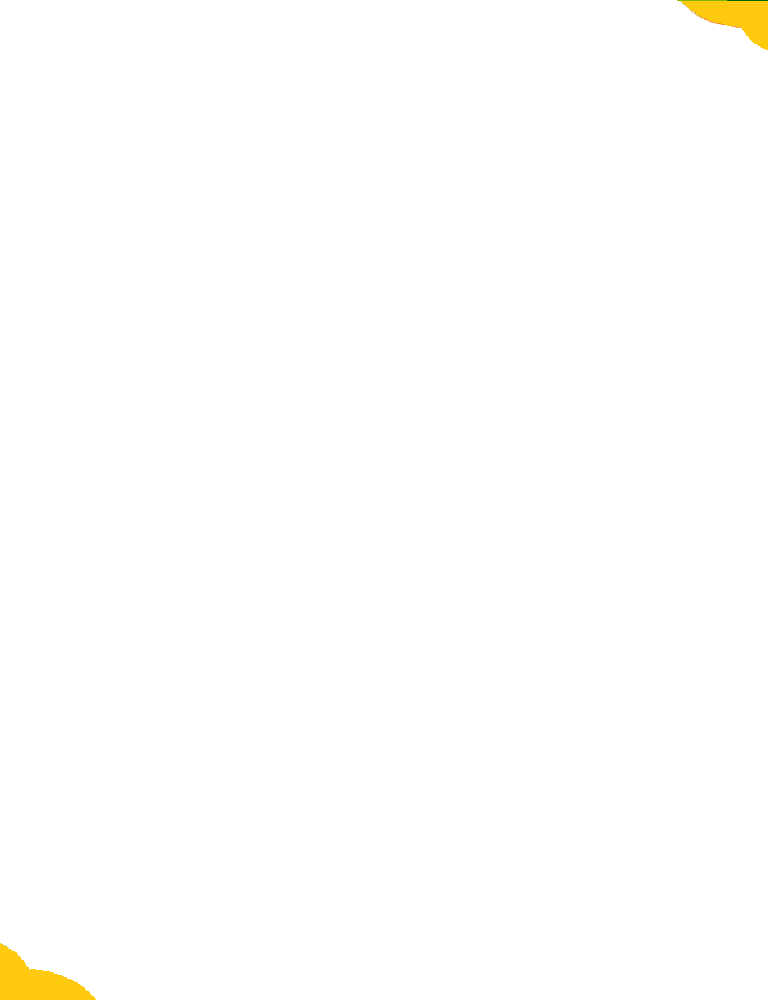
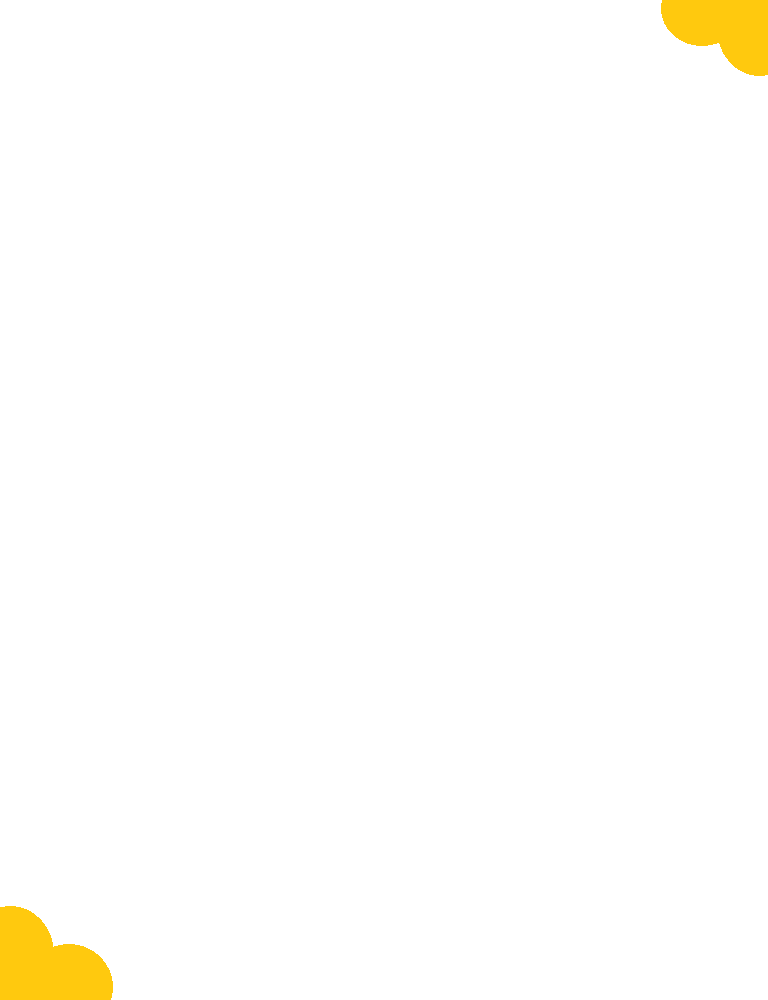
Ajustes de ajustes de imagenes

Changed region(s): [[0.0, 0.899, 0.1562, 1.0], [0.8438, 0.0, 1.0, 0.093]]

diff --git a/src/app/home/home.component.html b/src/app/home/home.component.html
@@ -1,19 +1,21 @@
-<section class="container h-100 pt-5">
-  <div class="row no-gutters mb-5">
-    <div class="col-12">
-      <div class="text-center">
-        <a href="#">
-          <h1><img src="assets/icons/icon-72x72.png" class="img-fluid" alt="img"></h1>
-        </a>
+<section>
+  <div class="container h-100 pt-5">
+    <div class="row no-gutters mb-5">
+      <div class="col-12">
+        <div class="text-center">
+          <a href="#">
+            <h1><img src="assets/icons/icon-72x72.png" class="img-fluid" alt="img"></h1>
+          </a>
+        </div>
       </div>
     </div>
+    <article class="row text-center">
+      <div class="col-12 mt-5">
+        <button type="button" class="btn btn-warning btn-circle-home">
+          <fa-icon [icon]="['fas', 'hamburger']" data-original-title="" title=""></fa-icon>
+          <p class="txtcard">Ingresar</p>
+        </button>
+      </div>
+    </article>
   </div>
-  <article class="row text-center">
-    <div class="col-12 mt-5">
-      <button type="button" class="btn btn-warning btn-circle-home">
-        <fa-icon [icon]="['fas', 'hamburger']" data-original-title="" title=""></fa-icon>
-        <p class="txtcard">Ingresar</p>
-      </button>
-    </div>
-  </article>
 </section>

diff --git a/src/styles.scss b/src/styles.scss
@@ -50,7 +50,13 @@ section {
   }
 }
 
-@media only screen and (min-device-width: 768px) and (max-device-width: 769px) and (-webkit-min-device-pixel-ratio: 1) {
+@media only screen and (min-device-width: 500px) and (max-device-width: 803px) and (-webkit-min-device-pixel-ratio: 1) {
+  section {
+    background-image: url("assets/images/bg_Programa_Tu_Break_ipad_1.png");
+  }
+}
+
+@media only screen and (min-device-width: 770px) and (max-device-width: 2000px) and (-webkit-min-device-pixel-ratio: 1) {
   section {
     background-image: url("assets/images/bg_Programa_Tu_Break_ipad_1.png");
   }
@@ -73,31 +79,8 @@ main {
   margin-left: 0px !important;
 }
 
-@media (min-width: 992px) {
-  .container {
-    max-width: 960px !important;
-  }
-}
-
-@media (min-width: 768px) {
-  .container, .container-sm, .container-md {
-    max-width: 100% !important;
-  }
-}
-
-@media (min-width: 992px) {
-  .container, .container-sm, .container-md {
-    max-width: 100% !important;
-  }
-}
-
-@media (min-width: 576px) {
-  .container, .container-sm {
-    max-width: 100%;
-  }
-}
-
 .btn-circle-home
  {
    width: 100%;
+   border-radius: 42px;
  }
